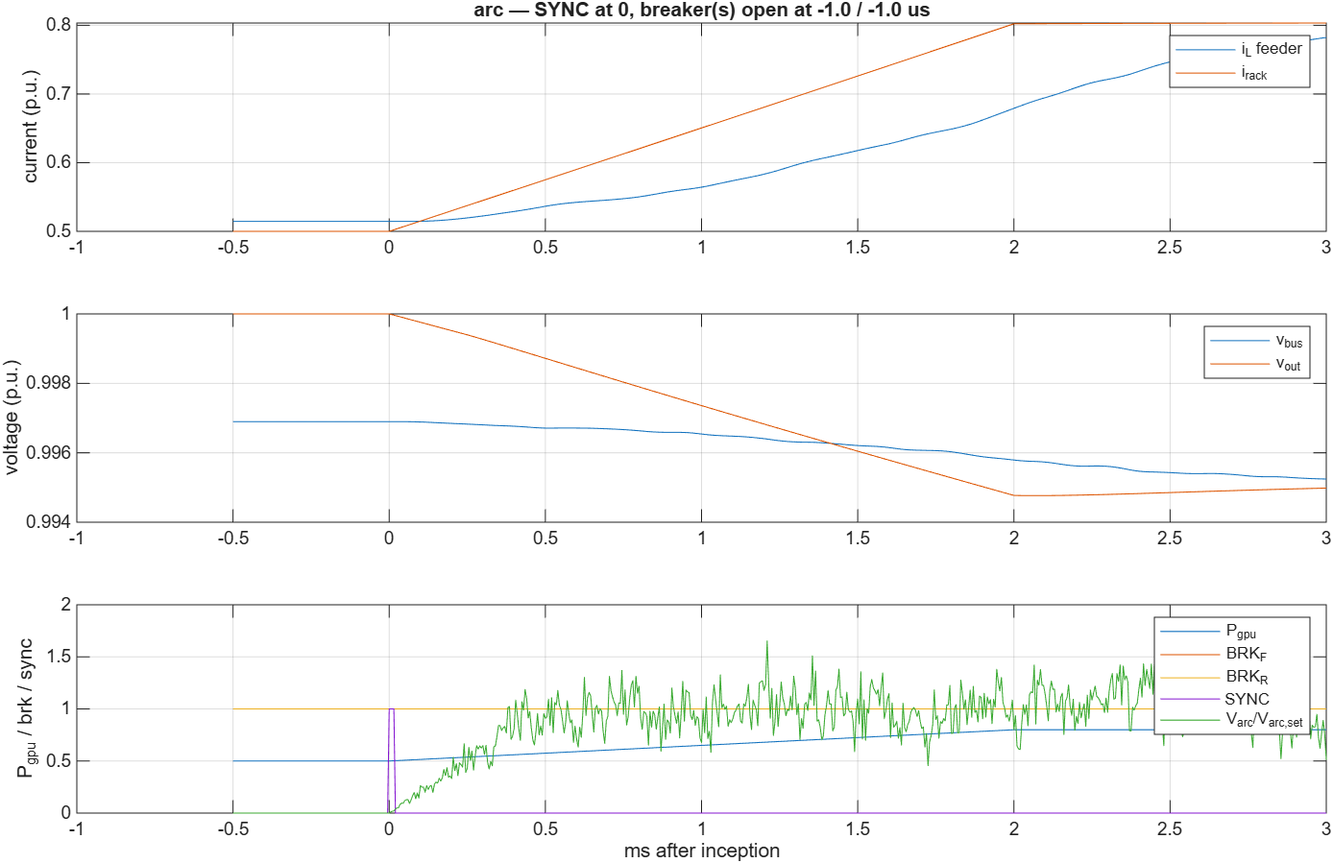
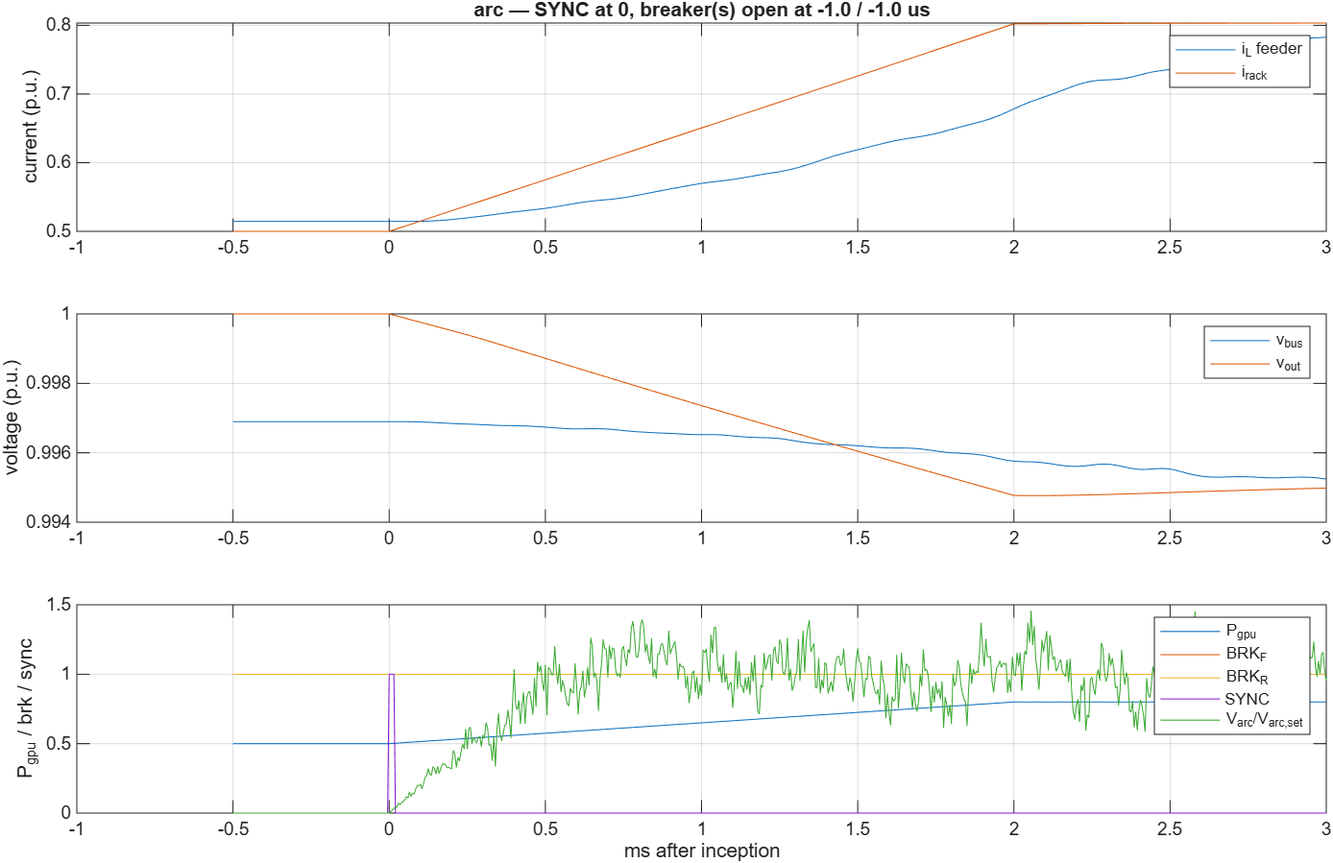
dcsim_rt_hil: arc noise independent bands (15 % rms), handover README + hil_quickstart, robust param-set reader (read_hil_param_sets)

diff --git a/simscape/hil_quickstart.m b/simscape/hil_quickstart.m
@@ -1,0 +1,167 @@
+function out = hil_quickstart(action, varargin)
+%HIL_QUICKSTART  Everyday commands for dcsim_rt_hil on a desktop MATLAB. Keep this file in the model folder.
+%
+%   hil_quickstart('open')                         load model + data, update the diagram, print a summary
+%   hil_quickstart('params')                       list the 38 tunable parameters with their current values
+%   hil_quickstart('sets')                         list the parameter sets in hil_param_sets.csv
+%   hil_quickstart('apply', 'demo_3_highz48')      apply one set to the parameters (base workspace)
+%   hil_quickstart('defaults')                     reload dcsim_rt_hil_data.mat: every parameter back to its default
+%   hil_quickstart('scaling')                      AO volts <-> physical units at the current ao_fs_V, + idle readings
+%   R = hil_quickstart('sim', 'demo_2_highz800_hard')
+%                                                  desktop run of the .slx: fault fired through FAULT_CMD at 20 ms,
+%                                                  the node emulated by a scripted TRIP 0.35 ms after inception
+%   R = hil_quickstart('sim', 'demo_4_bolted48', 'trip_after', 50e-6)      e.g. a Layer-1-like trip
+%   R = hil_quickstart('sim', 'demo_1_benign_step', 'T_end', 0.03)         options: T_fire, T_end, trip_after,
+%                                                                           trip ('auto' | 'feeder' | 'rack' | 'none')
+%   hil_quickstart('check')                        the 8 reference cases through the .slx (needs the project repo)
+%   hil_quickstart('export', 'R2023b')             save for an older release into .\handover\R2023b (+ data, files)
+%
+%   Notes. 'sim' always fires the fault at a fixed time (fault_mode forced to 0 for the run, restored after), on a flat
+%   load, so the plot is short and repeatable; on the box the demo uses fault_mode 1 (inception on a workload edge).
+%   'sim' passes inputs and run options to sim() only — the model itself is not modified.
+%   2026-10-16, for the dSPACE handover (HIL_HANDOVER_README.md).
+if nargin < 1 || isempty(action), action = 'open'; end
+mdl  = 'dcsim_rt_hil';
+here = fileparts(mfilename('fullpath'));
+addpath(here);                                   % the PreLoadFcn finds the data file through which(mdl)
+out  = [];
+switch lower(action)
+
+    case 'open'
+        ensure_loaded(mdl, here);
+        set_param(mdl, 'SimulationCommand', 'update');
+        fprintf('%s loaded and updated: solver %s, step hil_dt = %g us, %d tunable parameters\n', mdl, ...
+                get_param(mdl, 'Solver'), getp('hil_dt') * 1e6, numel(param_names()));
+        fprintf('ports in : TRIP_feeder TRIP_rack FAULT_CMD RE_ARM   (0/1)\n');
+        fprintf('ports out: AO1..AO4 [V]  SYNC  BRK_F  BRK_R  (0/1)  SIG (28 signals, ControlDesk only)\n');
+
+    case 'params'
+        ensure_loaded(mdl, here);
+        nm = param_names();
+        for i = 1:numel(nm)
+            p = evalin('base', nm{i});
+            fprintf('%-16s %-14.6g %s\n', nm{i}, p.Value, p.Description);
+        end
+
+    case 'sets'
+        T = read_hil_param_sets(fullfile(here, 'hil_param_sets.csv'));
+        for i = 1:height(T), fprintf('%-24s %-10s %s\n', T.set{i}, T.kind{i}, T.note{i}); end
+        out = T;
+
+    case 'apply'
+        ensure_loaded(mdl, here);
+        apply_hil_param_set(fullfile(here, 'hil_param_sets.csv'), varargin{1});
+
+    case 'defaults'
+        evalin('base', sprintf('load(''%s'');', strrep(fullfile(here, [mdl '_data.mat']), '''', '''''')));
+        fprintf('all parameters, pv and y0 reloaded from %s_data.mat\n', mdl);
+
+    case 'scaling'
+        ensure_loaded(mdl, here);
+        pv = evalin('base', 'pv'); fs = getp('ao_fs_V');
+        base = [pv(2) / pv(1), pv(1), pv(2) / pv(25), pv(25)];         % I_rated, V_ref, I_out_rated, V_ref48
+        pu = [getp('ao_pu_1'), getp('ao_pu_2'), getp('ao_pu_3'), getp('ao_pu_4')];
+        idle = [0.514 * base(1), 0.997 * base(2), 0.5 * base(3), 1.0 * base(4)];   % design point at 0.5 P_rated
+        nm = {'AO1 i_L   ', 'AO2 v_bus ', 'AO3 i_rack', 'AO4 v_out '}; un = {'A', 'V', 'A', 'V'};
+        fprintf('ao_fs_V = %g V\n', fs);
+        for i = 1:4
+            FS = pu(i) * base(i);
+            fprintf('%s  full scale %9.1f %s = %5.2f p.u.   %8.4f mV/%s   idle reading ~ %.2f V\n', ...
+                    nm{i}, FS, un{i}, pu(i), 1e3 * fs / FS, un{i}, fs * idle(i) / FS);
+        end
+
+    case 'sim'
+        ensure_loaded(mdl, here);
+        o = struct('T_fire', 20e-3, 'T_end', [], 'trip_after', 0.35e-3, 'trip', 'auto');
+        set_name = '';
+        if ~isempty(varargin) && mod(numel(varargin), 2) == 1, set_name = varargin{1}; varargin = varargin(2:end); end
+        for i = 1:2:numel(varargin), o.(varargin{i}) = varargin{i + 1}; end
+        if isempty(o.T_end), o.T_end = o.T_fire + 5e-3; end
+        if ~isempty(set_name)
+            apply_hil_param_set(fullfile(here, 'hil_param_sets.csv'), set_name);
+        end
+        fm0 = getp('fault_mode'); setp('fault_mode', 0);
+        cleanup = onCleanup(@() setp('fault_mode', fm0));                % restore even if sim() errors
+        dt = getp('hil_dt'); n = round(o.T_end / dt); t = (0:n-1)' * dt; k_f = round(o.T_fire / dt);
+        u = zeros(n, 4); u(k_f+1:min(k_f+2, n), 3) = 1.0;               % FAULT_CMD rising edge at T_fire
+        ft = getp('fault_type'); col = 0;
+        switch lower(o.trip)
+            case 'auto',   if ft == 1, col = 1; elseif ft == 2, col = 2; end   % arc / benign: no trip
+            case 'feeder', col = 1;
+            case 'rack',   col = 2;
+        end
+        if col > 0 && o.trip_after > 0
+            k_t = k_f + round(o.trip_after / dt); u(min(k_t+1, n):n, col) = 1.0;   % scripted node TRIP, held
+        end
+        assignin('base', 'hil_qs_in', [t, u]);
+        simOut = sim(mdl, 'StopTime', num2str((n - 1) * dt, 17), 'LoadExternalInput', 'on', 'ExternalInput', 'hil_qs_in', ...
+                     'SaveOutput', 'on', 'SaveTime', 'on', 'SaveFormat', 'Array', 'ReturnWorkspaceOutputs', 'on');
+        y = simOut.get('yout'); tt = simOut.get('tout');                 % AO1..4, SYNC, BRK_F, BRK_R, SIG(1..28)
+        S = @(i) y(:, 7 + i);
+        pv = evalin('base', 'pv'); I_r = pv(2) / pv(1); I48 = pv(2) / pv(25);
+        R = struct('t', tt, 'AO', y(:, 1:4), 'sync', y(:, 5), 'brk', y(:, 6:7), 'i_L', S(25), 'v_bus', S(26), ...
+                   'i_rack', S(27), 'v_out', S(28), 'clear_f_us', y(end, 7 + 7), 'clear_r_us', y(end, 7 + 8), 'set', set_name);
+        fprintf('%s: inception at %.1f ms, clearing feeder %.1f us / rack %.1f us (-1 = breaker closed); peak i_L %.2f p.u., peak i_rack %.2f p.u., min v_out %.2f p.u.\n', ...
+                tern(isempty(set_name), '(current parameters)', set_name), o.T_fire * 1e3, R.clear_f_us, R.clear_r_us, ...
+                max(R.i_L) / I_r, max(R.i_rack) / I48, min(R.v_out(R.brk(:, 2) > 0.5)) / pv(25));
+        w = tt >= o.T_fire - 0.5e-3; tm = (tt(w) - o.T_fire) * 1e3;
+        figure('Name', ['dcsim_rt_hil: ' set_name]);
+        subplot(4, 1, 1); plot(tm, y(w, 1:4)); grid on; ylabel('AO [V]'); legend('AO1 i_L', 'AO2 v_{bus}', 'AO3 i_{rack}', 'AO4 v_{out}', 'Location', 'eastoutside');
+        title(sprintf('%s — clearing f %.0f / r %.0f us', strrep(set_name, '_', '\_'), R.clear_f_us, R.clear_r_us));
+        subplot(4, 1, 2); plot(tm, R.i_L(w) / I_r, tm, R.i_rack(w) / I48); grid on; ylabel('current [p.u.]'); legend('i_L', 'i_{rack}', 'Location', 'eastoutside');
+        subplot(4, 1, 3); plot(tm, R.v_bus(w) / pv(1), tm, R.v_out(w) / pv(25)); grid on; ylabel('voltage [p.u.]'); legend('v_{bus}', 'v_{out}', 'Location', 'eastoutside');
+        subplot(4, 1, 4); stairs(tm, [R.brk(w, :), R.sync(w)]); ylim([-0.1 1.1]); grid on; ylabel('state'); xlabel('ms after inception');
+        legend('BRK_F', 'BRK_R', 'SYNC', 'Location', 'eastoutside');
+        out = R;
+
+    case 'check'
+        if exist('rt_hil_check', 'file') ~= 2 || exist('project_paths', 'file') ~= 2
+            error('hil_quickstart:check', ['the reference check needs the project repo (data/simscape/ref_*.mat, ' ...
+                  'scripts/compare_simscape.py): run it on the project laptop, rt_hil_check(5e-6, ''slx'')']);
+        end
+        out = rt_hil_check(getp('hil_dt'), 'slx');
+
+    case 'export'
+        rel = varargin{1};
+        ensure_loaded(mdl, here);
+        dst = fullfile(here, 'handover', rel); if ~exist(dst, 'dir'), mkdir(dst); end
+        try
+            Simulink.exportToVersion(mdl, fullfile(dst, [mdl '.slx']), rel);
+        catch ME                                                       % same name as the loaded model refused
+            warning('hil_quickstart:export', 'export under the model name refused (%s): exporting as _export and renaming', ME.message);
+            Simulink.exportToVersion(mdl, fullfile(dst, [mdl '_export.slx']), rel);
+            movefile(fullfile(dst, [mdl '_export.slx']), fullfile(dst, [mdl '.slx']));
+        end
+        copyfile(fullfile(here, [mdl '_data.mat']), dst);
+        D = load(fullfile(here, [mdl '_data.mat']), 'pv', 'y0');       % numbers-only fallback for an older release
+        save(fullfile(dst, [mdl '_pv_y0.mat']), '-struct', 'D', '-v7');
+        files = {'dcsim_rt_hil_plant.m', 'dcsim_rt_step.m', 'dcsim_rt_derivs.m', 'dcsim_rt_hil_params.m', ...
+                 'apply_hil_param_set.m', 'read_hil_param_sets.m', 'hil_param_sets.csv', 'hil_quickstart.m', 'HIL_HANDOVER_README.md', 'HIL_MODEL_INTERFACE.md'};
+        for i = 1:numel(files)
+            f = fullfile(here, files{i});
+            if exist(f, 'file'), copyfile(f, dst); else, warning('hil_quickstart:export', 'missing %s (not copied)', files{i}); end
+        end
+        fprintf('handover folder ready: %s\n', dst);
+
+    otherwise
+        error('hil_quickstart:action', 'unknown action ''%s'' — see help hil_quickstart', action);
+end
+end
+
+% ---------------------------------------------------------------------------------------------------------------------
+function ensure_loaded(mdl, here)
+if ~bdIsLoaded(mdl), load_system(fullfile(here, [mdl '.slx'])); end
+end
+function nm = param_names()
+w = evalin('base', 'whos');
+nm = {w(strcmp({w.class}, 'Simulink.Parameter')).name};
+end
+function v = getp(name)
+p = evalin('base', name); v = p.Value;
+end
+function setp(name, val)
+p = evalin('base', name); p.Value = val; assignin('base', name, p);
+end
+function s = tern(c, a, b)
+if c, s = a; else, s = b; end
+end

diff --git a/simscape/dcsim_rt_hil_plant.m b/simscape/dcsim_rt_hil_plant.m
@@ -25,10 +25,11 @@ function [AO, sync, brk_f, brk_r, sig] = dcsim_rt_hil_plant(trip_f, trip_r, faul
 %                                       12 arc_ramp [s] ignition ramp of V_arc (0.1e-3 .. 2e-3)
 %                    Series-arc noise on the HIL: MODEL.md uses 1/f-weighted noise from 1 kHz to f_hi (up to 1 MHz),
 %                    generated offline by FFT. A real-time box cannot do that, so the model makes a pink-like band
-%                    (1 kHz .. min(100 kHz, 0.4/dt)) online: unit white (xorshift, 4-uniform sum) -> three one-pole
-%                    low-passes at 1 / 10 / min(100 kHz, 0.4/dt) summed with equal rms -> one-pole high-pass at 1 kHz
-%                    -> unit rms by the analytic one-pole variance. Approximation for the demo; the ALERT class rate is
-%                    NOT quoted from the HIL (README_RT check (k) note 2b).
+%                    (1 kHz .. min(100 kHz, 0.4/dt)) online: three independent unit-white sources (xorshift, 4-uniform
+%                    sums) -> one-pole low-passes at 1 / 10 / min(100 kHz, 0.4/dt), each scaled to unit rms by the
+%                    analytic one-pole variance, summed -> one-pole high-pass at 1 kHz -> fixed gain for unit rms.
+%                    Approximation for the demo; the ALERT class rate is NOT quoted from the HIL (README_RT check (k)
+%                    note 2b).
 %     wp (13x1)        workload generator (MODEL.md 5.1, two tiers):  1 on (0/1)  2 P0 [W]  3 dP1 [W]  4 T1 [s]  5 duty1
 %                                        6 ramp1 [s]  7 jit1 (fraction of T1)  8 dP2 [W] (0 = tier 2 off)  9 T2 [s]  10 duty2
 %                                       11 ramp2 [s]  12 jit2 (fraction of T2)  13 seed (integer > 0)
@@ -220,18 +221,22 @@ end
 
 function [eta, s, lp, hx, hy] = arc_pink(s, lp, hx, hy, dt)
 %ARC_PINK  One sample of unit-rms pink-like noise, 1 kHz .. min(100 kHz, 0.4/dt), see header.
+%   2026-10-16: each band gets its OWN white sample. With one shared sample the three low-passed bands are correlated
+%   and the sum came out at 1.27 rms (19 % modulation at arc_m 0.15 — visible in the first arc demo plot). Independent
+%   bands sum to unit rms; the 1 kHz high-pass then leaves 0.88, restored by the fixed gain 1.135 (rms 1.01 / 1.00 /
+%   0.97 at 2 / 5 / 10 us, measured on the Python transliteration).
 %#codegen
-u = 0.0;
-for i = 1:4, [v, s] = xs_unif(s); u = u + v; end
-w = (u - 2.0) * 1.7320508075688772;                       % 4-uniform sum -> unit variance, near-gaussian
 fc = [1e3; 1e4; min(1e5, 0.4 / dt)]; eta = 0.0;
 for i = 1:3
+    u = 0.0;
+    for m = 1:4, [v, s] = xs_unif(s); u = u + v; end
+    w = (u - 2.0) * 1.7320508075688772;                   % 4-uniform sum -> unit variance, near-gaussian
     a = exp(-2.0 * pi * fc(i) * dt);
     lp(i) = a * lp(i) + (1.0 - a) * w;
     g = sqrt((1.0 + a) / (1.0 - a));                      % one-pole LP of unit white has variance (1-a)/(1+a)
     eta = eta + g * lp(i);
 end
-eta = eta / 1.7320508075688772;                           % three equal-rms bands -> unit rms
+eta = eta * (1.135 / 1.7320508075688772);                 % three independent equal-rms bands -> unit rms after the HP
 ahp = exp(-2.0 * pi * 1e3 * dt);                          % one-pole high-pass at 1 kHz
 hy = ahp * (hy + eta - hx); hx = eta; eta = hy;
 end

diff --git a/simscape/apply_hil_param_set.m b/simscape/apply_hil_param_set.m
@@ -1,8 +1,16 @@
 function apply_hil_param_set(T, name)
-%APPLY_HIL_PARAM_SET  Put one row of export_hil_param_sets into the base-workspace Simulink.Parameter objects
-%   (dcsim_rt_hil_params must have run). apply_hil_param_set(T, 'demo_2_highz800_hard')
+%APPLY_HIL_PARAM_SET  Put one row of hil_param_sets.csv into the base-workspace Simulink.Parameter objects
+%   (the model, or dcsim_rt_hil_params, must have created them).
+%   apply_hil_param_set('demo_2_highz800_hard')               reads hil_param_sets.csv next to this file
+%   apply_hil_param_set('path\hil_param_sets.csv', 'demo_3_highz48')
+%   apply_hil_param_set(T, 'demo_3_highz48')                  T from read_hil_param_sets
+%   2026-10-16: reads the CSV with read_hil_param_sets (readtable's auto-detection lost the 'set' column).
+if nargin == 1, name = T; T = read_hil_param_sets(); end
+if ischar(T) || isstring(T), T = read_hil_param_sets(char(T)); end
 r = T(strcmp(T.set, name), :);
-if isempty(r), error('apply_hil_param_set: no set named %s', name); end
+if isempty(r)
+    error('apply_hil_param_set:name', 'no set named %s; available: %s', name, strjoin(T.set', ', '));
+end
 for k = {'fault_type','fault_Rf','fault_Lf','fault_Rf48','fault_Lf48','fault_Varc','fault_mode','step_dP','step_ramp','wl_on','wl_P0','fault_arc_m','fault_arc_ramp','uvlo_tol','conv_smooth','brk_delay'}
     p = evalin('base', k{1}); p.Value = r.(k{1}); assignin('base', k{1}, p);
 end

diff --git a/simscape/read_hil_param_sets.m b/simscape/read_hil_param_sets.m
@@ -1,0 +1,21 @@
+function T = read_hil_param_sets(file)
+%READ_HIL_PARAM_SETS  Read hil_param_sets.csv into a table with the header names exactly as written
+%   (set, kind, fault_type, ..., note). readtable's automatic import detection can misread this file — the long
+%   quoted notes with commas make it guess the header wrong, so T.set does not exist — therefore read the raw cells
+%   and build the table from the first row. Numbers come back as doubles, text as char.
+%   T = read_hil_param_sets()                       -> hil_param_sets.csv next to this file
+%   T = read_hil_param_sets('path\hil_param_sets.csv')
+if nargin < 1 || isempty(file), file = fullfile(fileparts(mfilename('fullpath')), 'hil_param_sets.csv'); end
+C = readcell(file, 'Delimiter', ',', 'NumHeaderLines', 0);
+hdr = cellfun(@char, C(1, :), 'UniformOutput', false);
+body = C(2:end, :);
+for j = 1:size(body, 2)                              % a missing text cell comes back as <missing>: make it ''
+    for i = 1:size(body, 1)
+        if isa(body{i, j}, 'missing'), body{i, j} = ''; end
+    end
+end
+T = cell2table(body, 'VariableNames', hdr);
+if ~ismember('set', hdr)
+    error('read_hil_param_sets:header', 'no ''set'' column in %s (header: %s)', file, strjoin(hdr, ', '));
+end
+end

diff --git a/simscape/HIL_HANDOVER_README.md b/simscape/HIL_HANDOVER_README.md
@@ -1,0 +1,116 @@
+# dcsim_rt_hil — handover to the dSPACE team
+
+**Project:** IDCFC — intelligent DC fault discrimination for 800 VDC AI data-centre power distribution (Delta Cup 2026). **Contact:** Wasin (Prof. Supachai's group). **Model build:** 16 Oct 2026, MATLAB R2026a, validated (see §5). **Full interface tables:** `HIL_MODEL_INTERFACE.md` (same folder).
+
+## 0. In 30 seconds
+
+One Simulink model, `dcsim_rt_hil.slx`, that runs one 132 kW segment of an 800 VDC data-centre feeder in real time: source → feeder → 800 V bus → rack DC-DC converter → 48 V storage → GPU load, with fault branches and two breakers. It outputs **4 analog signals** (two currents, two voltages), takes **2 TRIP lines** back from our two STM32 relay nodes, opens its model breaker and logs **inception → breaker-open time** on its own clock.
+
+- One MATLAB Function block, 11 states, explicit RK4, fixed step, doubles. No Simscape blocks, no continuous states, no algebraic loops, no `rand`, no From Workspace.
+- **Step: 1.5–5 µs required** (5 µs is our baseline; 10 µs usable with caveats; 20 µs not acceptable).
+- I/O: **4 AO, 2–4 DI, 1 DO.**
+- **The first thing we'd like to know:** the turnaround time on your box with the I/O configured.
+
+## 1. What is in this folder
+
+| file | what |
+|---|---|
+| `dcsim_rt_hil.slx` | the model (exported to your release if you asked for one) |
+| `dcsim_rt_hil_data.mat` | `pv` (36 physics parameters), `y0` (initial state), the 38 tunable `Simulink.Parameter` objects. **Must sit next to the `.slx`** — the model's PreLoadFcn loads it |
+| `dcsim_rt_hil_pv_y0.mat` | numbers-only copy of `pv`, `y0` (fallback, §7) |
+| `dcsim_rt_hil_plant.m`, `dcsim_rt_step.m`, `dcsim_rt_derivs.m` | the code the MATLAB Function block calls — **must be on the path** (same folder) |
+| `dcsim_rt_hil_params.m` | recreates the 38 parameters at their defaults |
+| `hil_param_sets.csv`, `apply_hil_param_set.m`, `read_hil_param_sets.m` | the parameter sets for validation (`check_i_*`) and the demo (`demo_*`); `apply_hil_param_set('demo_3_highz48')` applies one |
+| `hil_quickstart.m` | everyday commands on a desktop MATLAB (§3) |
+| `HIL_MODEL_INTERFACE.md` | full port / parameter / signal tables |
+
+## 2. Requirements
+
+- MATLAB + Simulink (the release we exported to). No toolbox is used by the model itself; code generation goes through your usual dSPACE toolchain (RTI / ConfigurationDesk).
+- Keep **all files in one folder** and make it the current folder (or add it to the path).
+
+## 3. On a desktop first (5 minutes)
+
+```matlab
+cd('<this folder>')
+hil_quickstart('open')                          % loads + updates the model; prints solver, step, ports
+hil_quickstart('scaling')                       % AO volts <-> amps / volts, and what each AO reads at idle
+hil_quickstart('sets')                          % the parameter sets we brought
+R = hil_quickstart('sim', 'demo_2_highz800_hard');   % desktop run: fault at 20 ms, scripted TRIP, plots AO1-4
+R = hil_quickstart('sim', 'demo_3_highz48');
+R = hil_quickstart('sim', 'demo_1_benign_step');     % no trip expected
+hil_quickstart('params')                        % the 38 tunables with current values and descriptions
+hil_quickstart('defaults')                      % everything back to the defaults in the data file
+```
+Expected from `sim`: `demo_2_highz800_hard` clears the feeder at ≈ 370 µs (scripted trip 350 µs + 20 µs breaker), `demo_3_highz48` the rack at ≈ 370 µs, `demo_1_benign_step` −1 / −1 (no breaker opened). `sim` fires the fault at a fixed time on a flat load and does not change the model.
+
+## 4. Preparing the model for the box
+
+**Ports → I/O**
+
+| model port | type | connect to | notes |
+|---|---|---|---|
+| In 1 `TRIP_feeder` | 0/1 | DI1 | from our feeder node (3.3 V logic; we level-shift if needed). Held high ≥ `brk_delay` → feeder breaker opens, latched |
+| In 2 `TRIP_rack` | 0/1 | DI2 | from our rack node |
+| In 3 `FAULT_CMD` | 0/1 | DI3, optional | rising edge fires the fault; the ControlDesk parameter `fault_trigger` does the same |
+| In 4 `RE_ARM` | 0/1 | DI4, optional | rising edge re-arms; `rearm_cmd` does the same |
+| Out 1–4 `AO1..AO4` | V, 0…`ao_fs_V` | AO1–AO4 | i_L, v_bus, i_rack, v_out; saturated at full scale **by design** |
+| Out 5 `SYNC` | 0/1 | DO1 | 20 µs pulse at fault inception → both nodes + our scope |
+| Out 6–7 `BRK_F`, `BRK_R` | 0/1 | ControlDesk (DO optional) | breaker state, 1 = closed |
+| Out 8 `SIG` | 28 × 1 | none | ControlDesk signals (below) |
+
+**Solver:** FixedStepDiscrete, step = `hil_dt` (the parameter and the solver step are the same variable — keep them equal). Default 5 µs.
+
+**AO range:** `ao_fs_V` = 10 for a 0–10 V or ±10 V card (we add a 0.328 divider on our side) · 3.28 for an output that goes straight to the node · for a 0–4.5 V 12-bit card, 4.5 **only with** a 0.729 divider on our side.
+
+**ControlDesk layout we suggest**
+- *Controls:* `fault_type`, `fault_Rf`, `fault_Rf48`, `fault_mode`, `step_dP`, buttons `fault_trigger` and `rearm_cmd`, `run_enable`.
+- *Plots:* SIG 25–28 (`i_L`, `v_bus`, `i_rack`, `v_out` in A / V, unclipped), `BRK_F`, `BRK_R`, `SYNC`, SIG 22 `V_arc` for the arc demo.
+- *Numbers:* SIG 7 `clear_f_us`, SIG 8 `clear_r_us` (inception → breaker open, µs; −1 = not opened), SIG 23 `rearm_count`, SIG 24 `n_faults`.
+
+## 5. First joint session — what we'd like to run, in order
+
+| # | test | how | pass |
+|---|---|---|---|
+| 1 | **Turnaround time** | build with 4 AO + 4 DI + 1 DO configured, `hil_dt` = 5 µs; if it overruns, 10 µs | ≤ 5 µs: as planned · 10 µs: acceptable · 20 µs: not |
+| 2 | **Validation on the target** | for each `check_i_*` row of `hil_param_sets.csv`: apply the row, press `fault_trigger`, capture SIG 25–28 + SYNC at the task rate, export (.mat). We convert and score on our laptop (`ctrldesk_to_simmat.m` → `compare_simscape.py`) | the same 8/8 table as our desktop at that step |
+| 3 | **AO check** | `run_enable` = 1, no fault, read AO1–AO4 with a meter / scope | ≈ the idle readings of `hil_quickstart('scaling')` (AO1 ≈ 1.95 V, AO2 ≈ 6.9 V, AO3 ≈ 0.3 V, AO4 ≈ 6.9 V at `ao_fs_V` 10) |
+| 4 | **Idle soak** | workload on, no fault, 60 s, nodes connected | no TRIP, no onset outside the workload ramps |
+| 5 | **Closed loop** | nodes connected, `demo_3_highz48` | `clear_r_us` ≈ 370–380 µs |
+
+Desktop validation (our laptop, 16 Oct): 8/8 reference cases pass at 5 µs through the `.slx`, identical to the validated fixed-step core; the core is bit-identical to our Python reference at 1 µs and checked against an independent Simscape model (8/8 within 1 %).
+
+## 6. The demo sequence (≈ 2 min) — rows `demo_*` of `hil_param_sets.csv`
+
+Before the demo: workload on, nodes running ≥ 8 s (they learn the workload rhythm). Each fault waits for the next workload edge (`fault_mode` 1). After each event: `rearm_cmd` (it executes in the next idle phase of the workload, ≤ ~0.6 s).
+
+| # | set | expected |
+|---|---|---|
+| 1 | `demo_1_benign_step` | load step, **no trip** |
+| 2 | `demo_2_highz800_hard` | 8 Ω fault on the 800 V bus inside a load step → **feeder** trips, `clear_f_us` ≈ 380; v_bus then decays |
+| 3 | `demo_3_highz48` | 20 mΩ fault on the 48 V bus → **rack** trips, `clear_r_us` ≈ 375; the feeder sees only a smooth rise |
+| 4 | `demo_4_bolted48` | bolted 48 V fault; AO3 saturates; with the 0.25 ms relay alone `clear_r_us` ≈ 375 (the case for a per-sample threshold) |
+| 5 | `demo_5_arc` (optional) | series arc → ALERT, no trip; watch SIG 22 `V_arc` |
+
+## 7. If something goes wrong
+
+| symptom | cause | do |
+|---|---|---|
+| "undefined variable pv / y0 / …" on open or build | data file not next to the `.slx`, or folder not on the path | put all files in one folder, `cd` there, reopen |
+| warning "data file not loaded" on open (older release) | the `Simulink.Parameter` objects did not load | `load dcsim_rt_hil_pv_y0.mat`, then `dcsim_rt_hil_params(struct('P_rated', 132e3), 5e-6)`, then update / build |
+| outputs go to NaN after a fault | step below 1.5 µs with a high-resistance 800 V fault | use 2–5 µs (below 1.5 µs is outside the validated range) |
+| task overrun at 5 µs | CPU time per step | try 10 µs and tell us the turnaround — we have a relay model for 10 µs |
+| re-arm "does nothing" for a moment | re-arm waits for the next idle phase of the workload | wait ≤ ~0.6 s; `rearm_count` increments when it runs |
+| breaker stays closed although a node trips | TRIP was already high at re-arm (ignored until it goes low once), or DI threshold / level | check the DI level; the node clears TRIP on its own re-arm |
+| AO3 flat at full scale | rack current above 16.5 × rated (bolted fault) | by design — the same clip as our node's input |
+| feeder also trips after a rack trip | the converter recharges the 48 V storage after the rack breaker opens (≈ 1.4 p.u. on the feeder for ms) | not a model fault — log it; it is a selectivity question for our relay |
+
+## 8. What we need to know from you
+
+Box model and I/O variant; turnaround time with I/O; AO range / resolution / noise floor / update latency / load; DI levels, threshold, state when undriven, sampling; DO level and minimum pulse; ControlDesk capture rate and export format; your MATLAB release and whether we work on your PC; session dates, operator, and whether the box (or a live link) can be at the final on 14 Nov. We would like to credit you as equipment sponsor — please tell us how.
+
+---
+
+## สรุปภาษาไทย
+
+**โมเดล:** `dcsim_rt_hil.slx` จำลองระบบจ่ายไฟ 800 VDC หนึ่งส่วน (132 kW) แบบ real-time — MATLAB Function block เดียว, 11 สถานะ, RK4 ขั้นเวลาคงที่, ไม่มี Simscape. **ขั้นเวลา 1.5–5 µs** (10 µs ใช้ได้, 20 µs ไม่ได้). **I/O:** AO 4 ช่อง (กระแส/แรงดัน 2 จุด), DI 2–4 (TRIP จากโหนด, สั่ง fault, re-arm), DO 1 (SYNC). **ไฟล์ทั้งหมดต้องอยู่โฟลเดอร์เดียวกัน** — โมเดลโหลด `dcsim_rt_hil_data.mat` เองตอนเปิด. **ลองบนคอมก่อน:** `hil_quickstart('open')`, `('scaling')`, `('sim','demo_2_highz800_hard')`. **ทดสอบครั้งแรกบนกล่อง:** (1) วัด turnaround time พร้อม I/O, (2) รัน 8 กรณีอ้างอิง (`check_i_*`) จับสัญญาณ SIG 25–28 + SYNC ส่งให้เราเทียบ, (3) วัดค่า AO ตอน idle, (4) idle soak 60 s, (5) วงปิดกับโหนดจริง (คาดเวลาตัด ≈ 370–380 µs). **ถ้ามีปัญหา:** ดูตาราง §7. **สิ่งที่อยากทราบ:** รุ่นกล่องและ I/O, turnaround time, สเปก AO/DI/DO, การจับสัญญาณใน ControlDesk, เวอร์ชัน MATLAB, วันและการขนย้ายไปงาน 14 พ.ย., และการให้เครดิตผู้สนับสนุน.

diff --git a/simscape/HIL_MODEL_INTERFACE.md b/simscape/HIL_MODEL_INTERFACE.md
@@ -1,6 +1,6 @@
 # dcsim_rt_hil — the model we hand to the dSPACE team (interface, parameters, first tests)
 
-**Written:** 2026-10-15, revised 2026-10-16 after the model review (§8). **Status:** built; `rt_hil_check` 8/8 at 5 µs (loop and slx) on the 15 Oct build; the 16 Oct revision (review fixes) must be rebuilt and re-checked before handover — Wasin runs §6. **For:** the dSPACE alumni team (ASEAN distributor) and Prof. Supachai's review; EN with a Thai summary at the end.
+**Written:** 2026-10-15, revised 2026-10-16 after the model review (§8). **Status:** 16 Oct build (review fixes #1–#23, H1–H4, F1–F2): `rt_hil_check` 8/8 at 5 µs, loop and slx; the six demo runs re-done (`rt_hil_demo_*.png`): no workload steps, v_bus decays after a feeder trip (0.53 p.u. at +3 ms), clearing 380 / 375 µs, Layer-1 emulation 70 µs. Ready for the dSPACE team. **For:** the dSPACE alumni team (ASEAN distributor) and Prof. Supachai's review; EN with a Thai summary at the end.
 **Files (repo `simscape/`):** `dcsim_rt_hil_plant.m` (the model body; 38 tunables), `dcsim_rt_step.m` + `dcsim_rt_derivs.m` (the validated physics core + breaker element), `dcsim_rt_hil_params.m` (tunable parameters), `build_dcsim_rt_hil.m` (builds `dcsim_rt_hil.slx`), `dcsim_rt_hil_y0.m` (steady state), `rt_hil_check.m` (validation), `dcsim_rt_hil_demo.m` (desktop demo), `ctrldesk_to_simmat.m` (box capture → comparator), `export_hil_param_sets.m` / `apply_hil_param_set.m` (`hil_param_sets.csv`), `dcsim_rt_hil_data.mat` (pv, y0 and the 38 parameter objects — written by the build, loaded by the model's PreLoadFcn; must sit next to the `.slx`).
 
 ## 1. What the model is
@@ -67,7 +67,7 @@ Fixed (not tunable): `pv` (the other 35 physics parameters, MODEL.md) and `y0` (
 1. **Turnaround time** of `dcsim_rt_hil` with 4 AO + 4 DI + 1 DO configured, at `hil_dt` = 5 µs; if it overruns, at 10 µs. Reading: ≤ 5 µs planned (5 µs-trained relay), 10 µs acceptable (10 µs-trained relay, physics within 0.5 %), 20 µs not acceptable.
 2. **Check (i) on the target:** for each of the 8 cases apply the `check_i_*` row of `hil_param_sets.csv` (workload off, P0, fault, `uvlo_tol` 0, `conv_smooth` from the case, `brk_delay` 0), fire `fault_trigger`, capture SIG 25–28 + SYNC in ControlDesk at the task rate, export, `ctrldesk_to_simmat.m` → `compare_simscape.py`. Expected: the same table as `rt_sweep` at that step.
 3. **Idle soak:** workload on, no fault, 60 s — the nodes must not report an onset outside the ramps (P_gpu is ramp-limited by construction; max |ΔP_gpu| per step ≤ dP1·dt/ramp1 + dP2·dt/ramp2, the desktop demo prints it).
-4. **Closed loop:** nodes connected; a high-Z 48 V fault; read `clear_r_us` (expected ≈ 370 µs at a 5 µs step: onset + 0.25 ms + ≤ 96 µs + 20 µs breaker).
+4. **Closed loop:** nodes connected; a high-Z 48 V fault; read `clear_r_us` (expected ≈ 370–380 µs at a 5 µs step: onset 3–11 µs + 0.25 ms + ≤ 96 µs + 20 µs breaker; the desktop script with the scripted node gives 375).
 
 ## 6. Desktop checks before we come (Wasin)
 
@@ -99,7 +99,7 @@ for s = {'benign','highz800_hard','highz48','bolted48','bolted48_l1','arc'}, dcs
 
 ## 8. Review 2026-10-16 — disposition
 
-Review: `HIL_MODEL_REVIEW_2026-10-16.md` (23 items, code reading + Python transliteration). All items reproduced from the source. Fixed in this revision: **#1** tier-1 jitter decided one edge ahead (edges never step P_gpu); **#2** open feeder breaker: di_L/dt forced to 0 in every RK4 stage (`dcsim_rt_step.m`, `rt_port_check.py`; bit-identical with breakers closed — `rt_sweep`/`rt_hil_check` must still give 8/8); **#4** tier-2 bursts phase-locked, whole pulses only; **#5** TRIP high at re-arm ignored until seen low; **#6** re-arm executes in an idle phase; **#7** `conv_smooth` tunable (38 parameters; MODEL.md has no single design regime — it sweeps `smooth_on` 50/50 — so the demo regime is stated instead); **#9** `brk_delay` exact (`>` instead of `>=`); **#10** hold mode outputs the last computed values; **#11** SIG 4 → `event_active`; **#12** `uvlo_tol`, `conv_smooth`, `brk_delay` columns in the parameter sets; **#13** arc top pole = min(100 kHz, 0.4/dt); **#14–#23** text (this file, the rulebook, the demo comment). Documented, not changed: **#8** step range (§3, §7). Firmware (Claude Code, S1): **#3** Layer 1 gated by the onset detector. Not yet re-run after the fixes: `rt_hil_check` and the demo plots — Wasin, §6.
+Review: `HIL_MODEL_REVIEW_2026-10-16.md` (23 items, code reading + Python transliteration). All items reproduced from the source. Fixed in this revision: **#1** tier-1 jitter decided one edge ahead (edges never step P_gpu); **#2** open feeder breaker: di_L/dt forced to 0 in every RK4 stage (`dcsim_rt_step.m`, `rt_port_check.py`; bit-identical with breakers closed — `rt_sweep`/`rt_hil_check` must still give 8/8); **#4** tier-2 bursts phase-locked, whole pulses only; **#5** TRIP high at re-arm ignored until seen low; **#6** re-arm executes in an idle phase; **#7** `conv_smooth` tunable (38 parameters; MODEL.md has no single design regime — it sweeps `smooth_on` 50/50 — so the demo regime is stated instead); **#9** `brk_delay` exact (`>` instead of `>=`); **#10** hold mode outputs the last computed values; **#11** SIG 4 → `event_active`; **#12** `uvlo_tol`, `conv_smooth`, `brk_delay` columns in the parameter sets; **#13** arc top pole = min(100 kHz, 0.4/dt); **#14–#23** text (this file, the rulebook, the demo comment). Documented, not changed: **#8** step range (§3, §7). Firmware (Claude Code, S1): **#3** Layer 1 gated by the onset detector. Handover review (H1 model loaded once before the check loop; H2 numbers; H3 export fallback; H4 numbers-only data file) and final fixes (F1 Layer-1 claim corrected — the rack SSCB drops the GPUs with the fault either way; F2 tolerant PreLoadFcn) applied the same night. **Re-run 16 Oct 02:30 (Wasin):** `rt_hil_check` 8/8 at 5 µs loop and slx; six demos as predicted — `highz800_hard` TRIP +355 → breaker 380 µs, v_bus 0.53 p.u. at +3 ms and falling; `highz48` / `bolted48` 375 µs, `bolted48` peak ≈ 18 p.u., v_out 0.67 at opening; `bolted48_l1` 70 µs, peak ≈ 6 p.u., v_out 0.91; `benign` / `arc` no trip, P_gpu ramps end at 2.0 ms exactly. One residual found on the arc plot and fixed after the run: the three noise bands shared one white sample and summed to 1.27 rms (19 % modulation instead of 15 %); now independent bands with a fixed gain, unit rms within 3 % for 2–10 µs — affects the `arc` demo only, not the checks.
 
 ## สรุปภาษาไทย
 
